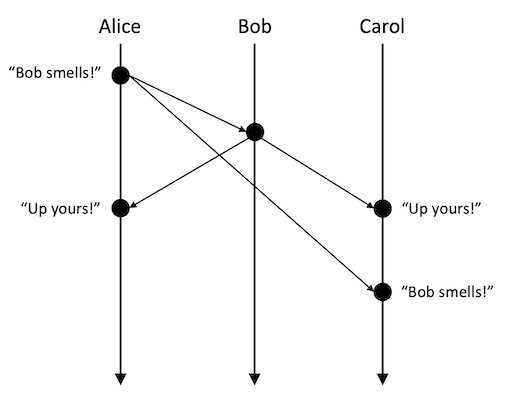
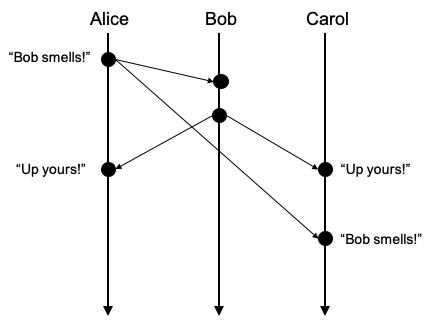
Add lecture 6

diff --git a/Lecture 6.md b/Lecture 6.md
@@ -1,0 +1,216 @@
+# Distributed Systems Lecture 6
+
+## Lecture Given by [Lindsey Kuper](https://users.soe.ucsc.edu/~lkuper/) on April 10th, 2020 via [YouTube](https://www.youtube.com/watch?v=UoIiwJ2G2fc)
+
+## Recap
+
+### Difference Between Receiving and Delivering
+
+* ***Sending*** a message is something you do
+* ***Receiving*** a message is something that happens to you
+* ***Delivering*** a message is you do after receiving the message
+
+***Delivery** is the conscious decision to process a received message.
+
+But why would you want to queue a message before processing it?  Typically, because messages need to be processed in order, and they might not have been received in the correct order.
+
+### FIFO Delivery
+
+If a process sends message `M2` after `M1`, then any process delivering ***both*** of these messages must deliver `M1` first then `M2`.
+
+Failure to do this constitutes as protocol violation as described in the previous lecture as a "FIFO anomaly"
+
+![FIFO violation or anomaly](./img/L5%20FIFO%20Anomaly.png)
+
+In this case, irrespective of the order in which process `Bob` received messages `{m1}` and `{m2}`, it should always ***deliver*** message `{m1}` first, followed by message `{m2}`.  Only then will these events occur in the correct order in the above Lamport diagram.
+
+In the case that `Bob` does not receive one (or either) of these messages, then no FIFO violation could have occurred, because here we are concerned with message ***delivery***, not message ***receipt***.
+
+
+### FIFO Delivery Implementation
+
+In real-life, it is unusual to have to implement FIFO delivery yourself because most distributed system communicate using TCP which already implements FIFO packet delivery.
+
+## Causal Delivery
+
+There are different ways of phrasing this, but one way is to say:
+
+> If `m1`'s send happens before `m2`'s send, then `m1`'s delivery must happen before `m2`'s delivery
+
+Here's an example of such a violation
+
+![Causal violation](./img/L6%20Causal%20Violation.png)
+
+In process <code>P<sub>1</sub></code>,  event `A` happens in the causal history of event `B`; therefore, any messages sent from <code>P<sub>1</sub></code> to <code>P<sub>2</sub></code> should be processed in the same causal order as the events that generated them
+
+But now, let's go back to the "Bob smells" example used in lecture 3
+
+![Causal Anomaly](./img/L3%20Causal%20Anomaly.png)
+
+Is this a FIFO violation?
+
+No (but only in a vacuous sense...)
+
+The reason is that a FIFO violation only occurs when two messages ***from the same originating process*** are delivered out of order by the receiving process.
+
+In the above diagram, there is no single process that sends ***two*** distinct messages to the same receiving process.  Here:
+
+* `Alice` sends a single message to `Bob`
+* `Alice` sends a single message to `Carol`
+* `Bob` sends a single message to `Alice`
+* `Bob` sends a single message to `Carol`
+* `Carol` is confused...
+
+However, this scenario is still a causal anomaly.  In general, causal anomalies all require at least three communicating processes.
+
+### Can a Message be Sent to Multiple Destinations?
+
+Yes, this is what's known as a broadcast message - I.E. a message that is sent to every participant in the system.  The idea of broadcast messages is something that will be dealt with later.
+
+## Totally Ordered Delivery
+
+This is another correctness property.
+
+> If a process delivers message `M1` followed by `M2`, then ***all*** processes delivering both `M1` and `M2` must deliver `M1` first followed by `M2`.
+
+Let's say we have two client processes `C1` and `C2` that each broadcast the same message to two processes `R1` and `R2`.  In this scenario, processes `R1` and `R2` each maintain their own replica of some key/value store.
+
+If processes `R1` and `R2` do not deliver the messages in the correct order, then we will encounter a violation that results in the replicas disagreeing with each other as to what the value of `x` should be.  In other words, this violation creates a data inconsistency.
+
+![Total Order Anomaly](./img/L6%20Total%20Order%20Anomaly.png)
+
+This is known as a ***Total Order Anomaly*** and is created when process `R1` delivers message `m1` followed by `m2`, but process `R2` delivers message `m2` followed by `m1`
+
+### Delivery Guarantees
+
+Since we know that causal delivery also ensures FIFO delivery, then we can start to arrange these delivery strategies in a hierarchy, with the weakest at the bottom.  Here, we will use the term `YOLO` to indicate the delivery guarantee that makes no guarantees
+
+![Delivery Hierarchy 1](./img/L6%20Delivery%20Hierarchy%201.png)
+
+Where would Totally Ordered Delivery fit in to this scheme?
+
+In fact, it would get its own branch because a FIFO anomaly is not necessarily an anomaly as far as Totally Ordered Delivery is concerned
+
+We recall that a FIFO anomaly is the following:
+
+![FIFO violation or anomaly](./img/L5%20FIFO%20Anomaly.png)
+
+But since the definition of Totally Ordered Delivery says that ***all*** processes delivering both `m1` and `m2` but do so in a consistent order, then the above FIFO anomaly is not an anomaly for  Totally Ordered Delivery because there is only one receiving process, so the order in which that process delivers the messages is immaterial.  Thus, this scenario only vacuously conforms to a Totally Ordered Delivery.
+
+Conversely, Totally Ordered Delivery violations are not necessarily FIFO violations.
+
+![Delivery Hierarchy 2](./img/L6%20Delivery%20Hierarchy%202.png)
+
+### What Does This Hierarchy Imply?
+
+This hierarchy helps us understand what we can and cannot expect out of a particular delivery guarantee.  For instance, if we implement a system guaranteeing causal delivery, then in doing so, we would also be guaranteeing FIFO delivery, because FIFO sits directly below Causal in the hierarchy.
+
+However, if we implemented a FIFO delivery system, we could make no guarantees about causal delivery.
+
+Similarly, if the system implements Totally Ordered Delivery, then this guarantee, in and of itself, cannot ensure either FIFO or Causal delivery.
+
+Turning this argument around, we can also gain an understanding of what type of anomalies can occur.  For instance, if we have a FIFO anomaly, then this is also going to be a causal anomaly, but not necessarily a Totally Ordered anomaly.
+
+
+## Implementing Delivery Guarantees
+
+### Implementing FIFO Delivery: Sequence Numbers
+
+The rule here is that any process `P2` delivering messages from some other process `P1`, nust do so in the order that `P1` sent those messages; which might well be different from order in which those messages arrive at `P2`.
+
+How would we go about eliminating FIFO delivery anomalies?
+
+One possibility is to use sequence numbers.  This is where all messages from a given sender are tagged with a sequence number and a sender id.  Each time a message is sent, the sender increments its sequence number.  On the receiver's side, all the messages from a given sender are added to a queue ordered by the sequence number.  When all the messages have arrived, the receiver can then deliver them in the correct order.
+
+In this case, sequence numbers do not need to be unique per message, because each massage is also qualified with a sender id; therefore, it is the combination of the sender id and the sequence number that allows the receiver to discriminate who sent what message and in which order.
+
+***Problems with Sequence Numbers***
+
+What happens if a message is lost?
+ 
+`Alice` sends messages `m1` and `m2` to `Bob` who delivers them correctly.  However, without her knowing, `Alice`'s message `m3` gets lost and never arrives at `Bob`.  Then `Alice` sends messages `m4` and `m5` which `Bob` receives; however, because `Bob` is still waiting for the message with sequence number `3` to arrive, `Bob` will add any subsequent messages to his queue which may end up waiting for ever to be delivered.
+ 
+![Naïve Sequence numbering](./img/L6%20Naive%20Seq%20Nos.png)
+
+Consequently, in a network where message delivery is unreliable, a naïve sequence number strategy like this will break as soon as message delivery fails for some reason.
+
+Strategies to mitigate these problems could include:
+
+* Buffering out of sequence messages for a pre-determined period of time, hoping that the late message arrives either before the message buffer fills or the pre-determined timeout expires
+* Processing out of sequence messages on the assumption that the intervening message is lost.  If this assumption turns out to be false and the message delivery was simply delayed, then the late message would have to be dropped
+
+Neither of the above strategies are very good in that they tend to create more problems than they solve...
+
+Now consider this situation.  Are the conditions of FIFO delivery satisfied?
+
+![Vacuous FIFO Delivery](./img/L6%20Vacuous%20FIFO%20Delivery.png)
+
+Yes, but only in a vacuous sense.  Due to the fact that `Bob` drops all the messages he receives, zero messages are delivered; therefore, the conditions of FIFO delivery are vacuously satisfied.
+
+### Implementing FIFO Delivery: Acknowledgments
+
+In this approach, every receiver must send an `ack` back to the sender upon receipt of a message.
+
+So when `Alice` sends a message to `Bob`, neither `Alice` nor `Bob` need concern themselves with sequence numbers.  However, this approach has several distinct drawbacks:
+
+* Communication now becomes sequential.  `Alice` cannot send `m2` to `Bob` until it receives an `ack` form `Bob` that he has received `m1`
+* Increases the volume of network traffic
+* We are still dependent upon a network that can guarantee message delivery
+
+One way of making this approach to communication more efficient is to gather messages into batches, thus increasing the granularity of communication.
+
+Lets look again at the ***Causal Anomaly*** situation:
+
+![Causal Anomaly](./img/L3%20Causal%20Anomaly.png)
+
+The problem here is that `Carol` delivers the message she receives from `Bob` out of causal order, thus resulting in confusion...
+
+Here, we can use a vector clocks to solve causal anomalies.
+
+## Using Vector Clocks to Prevent Causal Anomalies
+
+In the [previous lecture](./Lecture%205.md), we looked at using vector clocks to count both message send and receive events; but in order to ensure Causal Delivery, it turns out that we only need to count message send events.
+
+![Ensure Casual Delivery 1](./img/L6%20Ensure%20Casual%20Delivery%201.png)
+
+Before sending the message, `Alice` updates her vector clock to `[1,0,0]`
+
+### What Should Bob Do?
+
+`Bob` receives the message from `Alice`.  Should he deliver it?
+
+Yes, he has no reason not to.
+
+`Bob` delivers the message and discovers that it is not to his liking.  But, since `Bob` has the emotional maturity of an eight-year-old, he fails to realise that soap and water will work far better than trading insults; so, he resorts to sending his own broadcast message back to `Alice` and `Carol`
+
+In delivering this message, `Bob` examines the vector clock and discovers that its is less than his, thus the message is part of his causal history.  He therefore uses the received vector clock to update updates his own vector clock, and then increments his position in the new vector clock value.
+
+Since this is a broadcast message, it is treated as a single send event, so the same vector clock value of `[1,1,0]` is sent to both `Alice` and `Carol`.
+
+![Ensure Casual Delivery 2](./img/L6%20Ensure%20Casual%20Delivery%202.png)
+
+### What Should Alice Do?
+
+The message now arrives at `Alice`.  Should she deliver this message?
+
+Yes: again, she has no reason not to.
+
+`Alice`'s vector clock is `[1,0,0]` and the incoming vector clock on the message differs only by `1` in `Bob`'s position.  So we can conclude that only one event has taken place since our last message send event, and that event happened in process `Bob`
+
+### But What Should Carol Do?
+
+`Bob`'s message also arrives at Carol with vector clock `[1,1,0]`.  Should she deliver it?
+
+Actually, no!
+
+The reason is that compared to `Carol`'s vector clock (which is still set to `[0,0,0]`), the vector clock on the incoming message is too big.  Its fine for `Bob`'s position to be set to `1` because this is one bigger than `Carol`'s vector clock and the message came from `Bob`; however, there's a `1` in `Alice`'s clock position.  This means that this message is the response to some event that took place in `Alice`, but that ***Carol doesn't yet know about***.
+
+In other words, as far as `Carol` is concerned, this is a message from the future that arrived too early, and therefore must be buffered.
+
+Finally, `Alice`'s original `"Bob smells"` message arrives at `Carol`.  `Carol` now examines this message's vector clock and discovers that it has the expected value of `[1,0,0]`; therefore it is fine to deliver it.
+
+Once this second message has been delivered, the buffered message can be delivered because `Carol` has now caught up with the event that took place in `Alice`.
+
+`Carol` is no longer confused...
+
+

diff --git a/Lecture 5.md b/Lecture 5.md
@@ -61,7 +61,7 @@ For example, if my VC is `[1, 12,4]` and I receive the VC `[7,0,2]`, the pointwi
 
 What does `<` mean in the context of two vectors?
 
-This is calculated by performing a pointwise comparison ***and*** rejecting the special case where `VC(A) = VC(B)`
+This is calculated by performing a pointwise comparison of each element in the vector ***and*** rejecting the special case where `VC(A) = VC(B)`
 
 <code>for all elements in the VCs, VC(A)<sub>i</sub> ≤ VC(B)<sub>i</sub> && VC(A) ≠ VC(B)</code>
 
@@ -108,7 +108,7 @@ I.E. `A || B`
 
 ## Worked Example
 
-Let's see how the vector clocks in three processes (`Alice`, `Bob` and `Carol`) are processed as events are sent and received:
+Let's see how the vector clocks in three processes (`Alice`, `Bob` and `Carol`) are processed as messages are sent and received:
 
 ![Vector Clocks example 1](./img/L5%20VC%20Clocks%201.png)
 ![Vector Clocks example 2](./img/L5%20VC%20Clocks%202.png)
